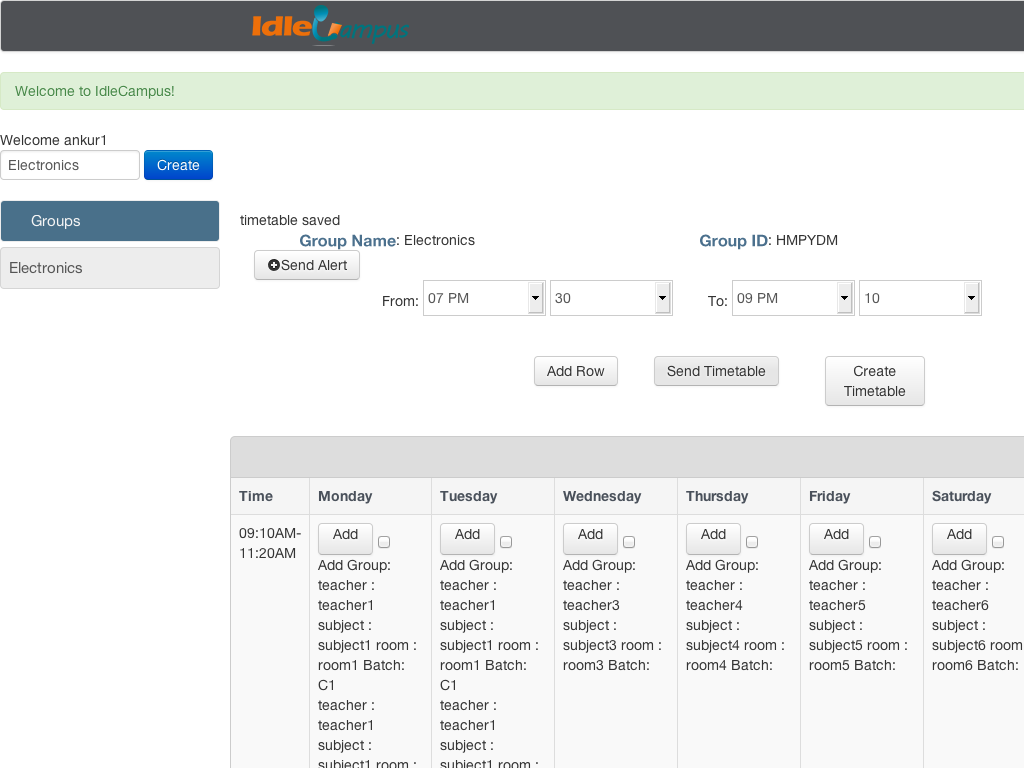
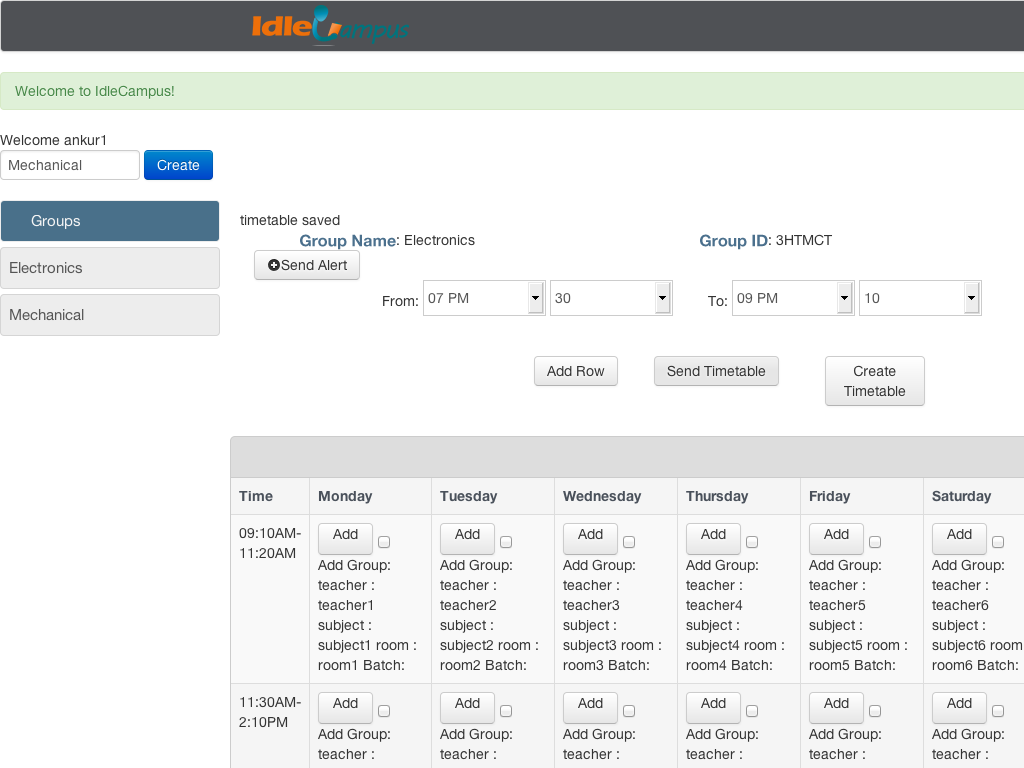
retrieving propoer id setting

diff --git a/app/views/timetable/_timetable.html b/app/views/timetable/_timetable.html
@@ -110,8 +110,8 @@
                                 </td>
                                 <td ng-repeat="dt in time">
 
-                                    <a href="#addtimetableentry{{index}}" ng-model="index"
-                                       ng-click="index=($parent.$index)*7+$index+1" role="button" class="editbtn btn"
+                                    <a href="#addtimetableentry{{($parent.$index)*7+$index+1;index = ($parent.$index)*7+$index+1;}}" ng-model="index"
+                                       role="button" class="editbtn btn" 
                                        data-toggle="modal" id="sub{{($parent.$index)*7+$index+1}}" style="
                                     width: 53px;
                                             height: 30px;
@@ -120,6 +120,7 @@
                                             padding-right: 0px;
                                             padding-bottom: 0px;
                                     ">Add</a>
+																		
                                     
                       <span ng-hide="data.timetable.batches.length == 0">
                       <!-- {{data.timetable.batches.length > 0}} -->
@@ -133,8 +134,8 @@
                            <!--{{datetime}} {{data.timetable.batches.length>0}}-->
                          <span>
 
-                             <span ng-repeat="entry in data.timetable.entries" name="subject"
-                                   id="s{{($parent.$index)*7+$index+1}}"> {{entry.name}} : {{datetime[entry.name]}}
+                             <span ng-repeat="entry in data.timetable.entries"
+                                   id="{{entry.name}}{{index}}"> {{entry.name}} : {{datetime[entry.name]}}
                              </span>
                     <span ng-show="data.timetable.batches.length>0">  Batch: {{datetime['batch']}}
                     </span>

diff --git a/spec/integration/timetable_creation_spec.rb b/spec/integration/timetable_creation_spec.rb
@@ -11,7 +11,7 @@ feature 'Visitor signs up', :js => true do
     
      
      @group1 = @user.groups.build(name:'Electronics')
-     # group2 = @user.groups.build(name:'Mechanical')
+     @group2 = @user.groups.build(name:'Mechanical')
      
      fill_in "group",with:@group1.name
     
@@ -19,8 +19,15 @@ feature 'Visitor signs up', :js => true do
       within("#new_group") do
          click_button "creategroupbutton"
       end
-
+      
+      fill_in "group",with:@group2.name
     
+    
+       within("#new_group") do
+          click_button "creategroupbutton"
+       end
+
+       # open_page
       click_link @group1.name
          #     
       # expect(page).to have_css("#timetable")
@@ -44,7 +51,7 @@ feature 'Visitor signs up', :js => true do
      
       check "monday"
       check "tuesday"
-       check "wednesday"
+      check "wednesday"
       check "thursday"
       check "friday"
       check "saturday"
@@ -95,40 +102,40 @@ feature 'Visitor signs up', :js => true do
       select 20,from: "to_minute"
       click_button "AddRow"
      
-      check "addbatch1" 
-      click_link_def "sub1"
-     
-      select "teacher1",from: "teacher11"
-      select "subject1",from: "subject11"
-      select "room1",from: "room11"
-     
-      select "teacher1",from: "teacher12"
-      select "subject1",from: "subject12"
-      select "room1",from: "room12"
-     
-      select "teacher1",from: "teacher13"
-      select "subject1",from: "subject13"
-      select "room1",from: "room13"
-       click_button "close1" 
-        check "addbatch2" 
-        click_link_def "sub2"
-  #     
-  #     
-       select "teacher1",from: "teacher21"
-       select "subject1",from: "subject21"
-       select "room1",from: "room21"
-     
-       select "teacher1",from: "teacher22"
-       select "subject1",from: "subject22"
-       select "room1",from: "room22"
-     
-       select "teacher1",from: "teacher23"
-       select "subject1",from: "subject23"
-       select "room1",from: "room23"
-       click_button "close2"
+      # check "addbatch1" 
+  #     click_link_def "sub1"
+  #    
+  #     select "teacher1",from: "teacher11"
+  #     select "subject1",from: "subject11"
+  #     select "room1",from: "room11"
+  #    
+  #     select "teacher1",from: "teacher12"
+  #     select "subject1",from: "subject12"
+  #     select "room1",from: "room12"
+  #    
+  #     select "teacher1",from: "teacher13"
+  #     select "subject1",from: "subject13"
+  #     select "room1",from: "room13"
+  #      click_button "close1" 
+  #       check "addbatch2" 
+  #       click_link_def "sub2"
+  # #     
+  # #     
+  #      select "teacher1",from: "teacher21"
+  #      select "subject1",from: "subject21"
+  #      select "room1",from: "room21"
+  #    
+  #      select "teacher1",from: "teacher22"
+  #      select "subject1",from: "subject22"
+  #      select "room1",from: "room22"
+  #    
+  #      select "teacher1",from: "teacher23"
+  #      select "subject1",from: "subject23"
+  #      select "room1",from: "room23"
+  #      click_button "close2"
      #    
        
-       add_entry(3,7)
+       add_entry(1,7)
        # open_page
       select "11 AM",from: "from_hour"
       select 30,from: "from_minute"
@@ -162,50 +169,43 @@ feature 'Visitor signs up', :js => true do
         click_button "AddRow"
       #   
          add_entry(29,35)
-     #  #   
+      #   
       
 
-        # open_page
+         # open_page
 end
 
 scenario 'with valid email and password' do
-  # 1.upto(35) do |index|
- #    expect(page).to have_css "a#sub#{index}"
- #  end
-       click_button "SendTimetable" 
-       page.save_screenshot('screenshot.png')
-        sleep(5)
-       page.should have_content("timetable saved")
- # #   
- 
-      # visit '/'  
-       # open_page
-        
-       click_link @group1.name
-       
-       
-       page.should have_content("timetable saved")
+
+  click_button "SendTimetable" 
+  page.save_screenshot('screenshot.png')
+  sleep(5)
+  page.should have_content("timetable saved")
+
+
+  click_link @group2.name
+
+
+
+  click_link @group1.name
+
+  check_presence
+
+  page.should have_content("timetable saved")
  end 
   
-# scenario "only after the presence of a single entry only then the send timetable should be present" do
-#     1.upto(35) do |index|
-#       expect(page).to have_css "a#sub#{index}"
-#     end
-#   expect(page).to have_button('SendTimetable')
-#   
-# end
-
 
  
+end
 
 
 
-# scenario 'clicks the group after creating the timetable' do
-#  
-#      
-#       # click_link @group1.name
-#   end
- 
+def check_presence
+  1.upto(35) do |index|
+     expect(page).to have_css("#teacher#{index}")
+     expect(page).to have_css("#subject#{index}")
+     expect(page).to have_css("#room#{index}")
+  end
 end
 
 def add_entry(from,to)
@@ -213,8 +213,14 @@ def add_entry(from,to)
      puts  "sub#{index}"
     click_link_def "sub#{index}"
     select "teacher#{index}",from: "teacher#{index}"
+    # open_page
+     expect(page).to have_css("#teacher#{index}",text:"teacher#{index}")
     select "subject#{index}",from: "subject#{index}"
+     expect(page).to have_css("#subject#{index}",text:"subject#{index}")
     select "room#{index}",from: "room#{index}"
+    
+      expect(page).to have_css("#room#{index}")
+    
     click_button "close#{index}"   
   end
 end
